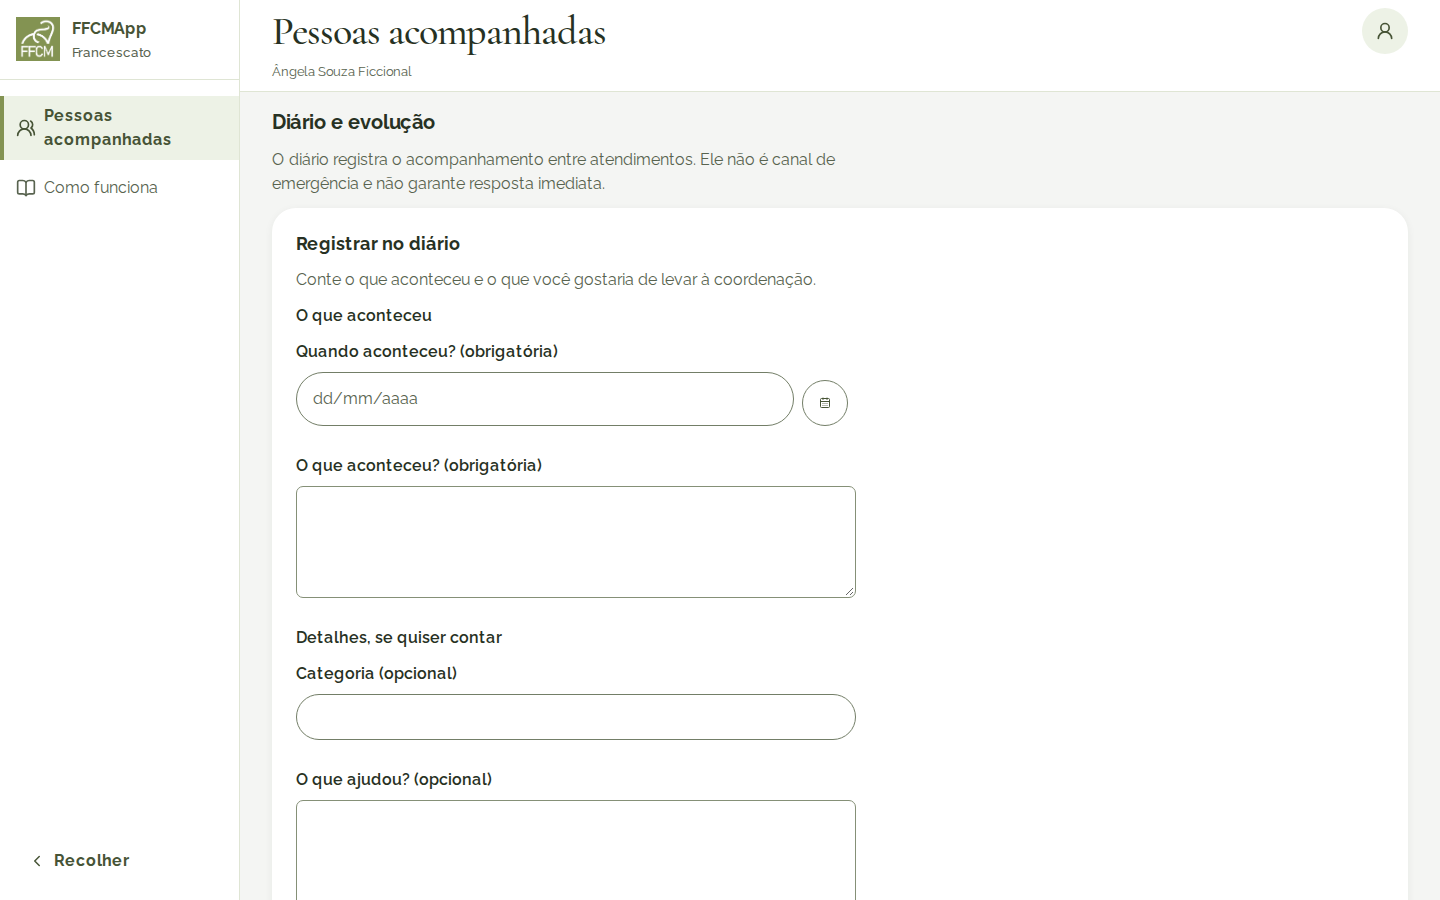
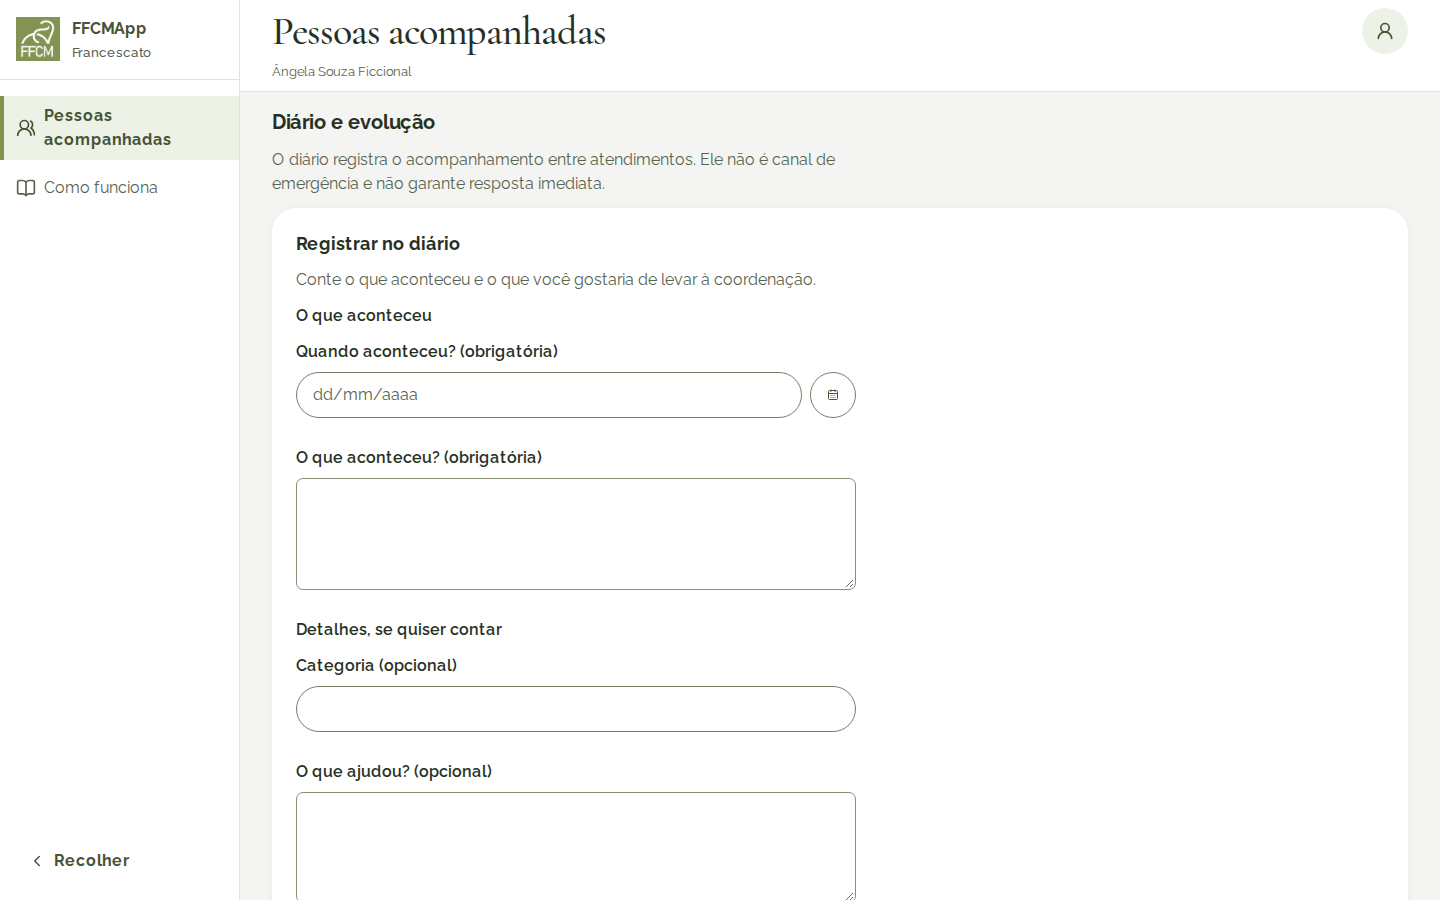
Alinha o botão do calendário ao campo de data

diff --git a/scripts/prova-celular/diario-primitivas.pw.ts b/scripts/prova-celular/diario-primitivas.pw.ts
@@ -6,6 +6,7 @@ import { envelope, id } from '../../web/fixtures/comum.js';
 import { responder } from '../../web/fixtures/despachante.js';
 import { PACIENTE_IDS, pacientes, sessaoAdministrador } from '../../web/fixtures/sessao.js';
 import { conferirAxe } from './axe.js';
+import { conferirAlinhamentoDaData } from './controles-nativos.js';
 
 let servidor: ViteDevServer | undefined;
 let origem: string;
@@ -106,6 +107,7 @@ test('Diário exibe prosa inteira a 320 px e publica a data e a audiência visí
   await preparar(page, 'profissional');
   const diario = page.locator('[data-secao=diario]');
   const registroPublicado = diario.getByRole('article');
+  await conferirAlinhamentoDaData(diario.locator('[data-aprimorada=data]:visible'));
   await expect(registroPublicado.getByText('Publicado', { exact: true })).toHaveCSS(
     'border-radius',
     '999px',
@@ -156,6 +158,7 @@ test('Diário da Família mantém rótulos dos campos e não oferece comandos da
   await preparar(page, 'familia');
   const diario = page.locator('[data-secao=diario]');
   await expect(diario.getByRole('heading', { name: 'Registrar no diário' })).toBeVisible();
+  await conferirAlinhamentoDaData(diario.locator('[data-aprimorada=data]:visible'));
   const categoria = diario.getByRole('textbox', { name: 'Categoria (opcional)' });
   await expect(categoria).toHaveCSS('border-radius', '999px');
   await expect(
@@ -165,4 +168,12 @@ test('Diário da Família mantém rótulos dos campos e não oferece comandos da
   await expect(diario.getByRole('button', { name: 'Gravar áudio' })).toHaveCount(0);
   await expect(diario.getByRole('button', { name: /converter em tarefa/ })).toHaveCount(0);
   expect((await conferirAxe(page, 'Diário da Família a 320 px')).toleradas).toEqual([]);
+});
+
+test('campo e calendário do Diário ficam no mesmo eixo vertical no desktop', async ({ page }) => {
+  await page.setViewportSize({ width: 1440, height: 900 });
+  await preparar(page, 'profissional');
+  await conferirAlinhamentoDaData(
+    page.locator('[data-secao=diario] [data-aprimorada=data]:visible'),
+  );
 });

diff --git a/scripts/prova-celular/controles-nativos.ts b/scripts/prova-celular/controles-nativos.ts
@@ -1,4 +1,4 @@
-import { type Page, expect } from '@playwright/test';
+import { type Locator, type Page, expect } from '@playwright/test';
 
 /** Inseridos após a carga, seleção e data continuam sob o pai que os criou. */
 export async function conferirControlesNativos(page: Page, seletor: string) {
@@ -24,4 +24,17 @@ export async function conferirControlesNativos(page: Page, seletor: string) {
     { tipo: 'select-one', mesmoPai: true, opacidade: '1' },
     { tipo: 'date', mesmoPai: true, opacidade: '1' },
   ]);
+}
+
+/** O campo e o botão formam um controle com o mesmo eixo visual. */
+export async function conferirAlinhamentoDaData(grupo: Locator) {
+  const campo = grupo.locator('[data-valor-visivel]');
+  const botao = grupo.getByRole('button', { name: 'Escolher no calendário' });
+  await expect(campo).toBeVisible();
+  await expect(botao).toBeVisible();
+  const [campoCaixa, botaoCaixa] = await Promise.all([campo.boundingBox(), botao.boundingBox()]);
+  if (!campoCaixa || !botaoCaixa) throw new Error('Campo de data ou calendário sem caixa visível.');
+  const deslocamento =
+    botaoCaixa.y + botaoCaixa.height / 2 - (campoCaixa.y + campoCaixa.height / 2);
+  expect(deslocamento, 'centro vertical do botão em relação ao campo de data').toBeCloseTo(0, 0);
 }

diff --git a/scripts/prova-celular/filtros-data.pw.ts b/scripts/prova-celular/filtros-data.pw.ts
@@ -5,7 +5,7 @@ import { envelope } from '../../web/fixtures/comum.ts';
 import { responder } from '../../web/fixtures/despachante.ts';
 import { PACIENTE_IDS, concessoesEquipe, sessaoAdministrador } from '../../web/fixtures/sessao.ts';
 import { conferirAxe } from './axe.ts';
-import { conferirControlesNativos } from './controles-nativos.js';
+import { conferirAlinhamentoDaData, conferirControlesNativos } from './controles-nativos.js';
 
 const caso = PACIENTE_IDS[0];
 const caminhoAuditoria = '/api/admin/auditoria';
@@ -164,7 +164,8 @@ test('Linha do tempo encaminha a data escolhida junto dos demais filtros', async
   await expect(
     page.locator('output').filter({ hasText: 'Nada registrado neste caso ainda.' }),
   ).toBeVisible();
-  const { visivel } = await dataVisivel(page, `linha-tempo-de-${caso}`);
+  const { grupo, visivel } = await dataVisivel(page, `linha-tempo-de-${caso}`);
+  await conferirAlinhamentoDaData(grupo);
   await expect(visivel).toHaveAttribute('id', `linha-tempo-de-${caso}-texto`);
   await conferirAxe(page, 'filtros-data — linha do tempo');
   await visivel.fill('15/10/2026');

diff --git a/web/componentes/ui/campo-data.tsx b/web/componentes/ui/campo-data.tsx
@@ -198,7 +198,7 @@ export function CampoData({
         }}
         onChange={(evento) => aoAlterar?.(evento.currentTarget.value)}
       />
-      <div className="flex items-stretch gap-sistema-2">
+      <div className="flex items-center gap-sistema-2">
         <input
           ref={editor}
           id={textoId}
@@ -226,7 +226,7 @@ export function CampoData({
         />
         <Botao
           ref={gatilho}
-          className="size-alvo-toque shrink-0 p-0"
+          className="m-0 size-alvo-toque shrink-0 p-0"
           data-ui="calendario"
           disabled={disabled || readOnly}
           aria-expanded={aberto}

diff --git a/openspec/changes/migrar-interface-para-react/estado/10g.md b/openspec/changes/migrar-interface-para-react/estado/10g.md
@@ -24,5 +24,11 @@ largura integral e limite interno para os campos.
   publicação com data e audiência iguais aos controles visíveis,
   retomada de rascunho, autorização do áudio, conversão e ausência de
   comandos da equipe para Família.
+- O CampoData compartilhado centraliza o campo e o calendário e
+  neutraliza a margem legada do botão dentro da ficha. Antes, o centro do
+  botão ficava 4 px abaixo. O Chromium mediu diferença de 0 px no Diário
+  e na Linha do tempo a 320, 390 e 1440 px. A prova falhou nas duas telas
+  com o código anterior. As datas digitadas e escolhidas continuam
+  chegando aos filtros e à publicação.
 - O próximo recorte da ficha é Plano de cuidado. A tarefa 7.1 segue
   aberta para as demais seções e famílias.
